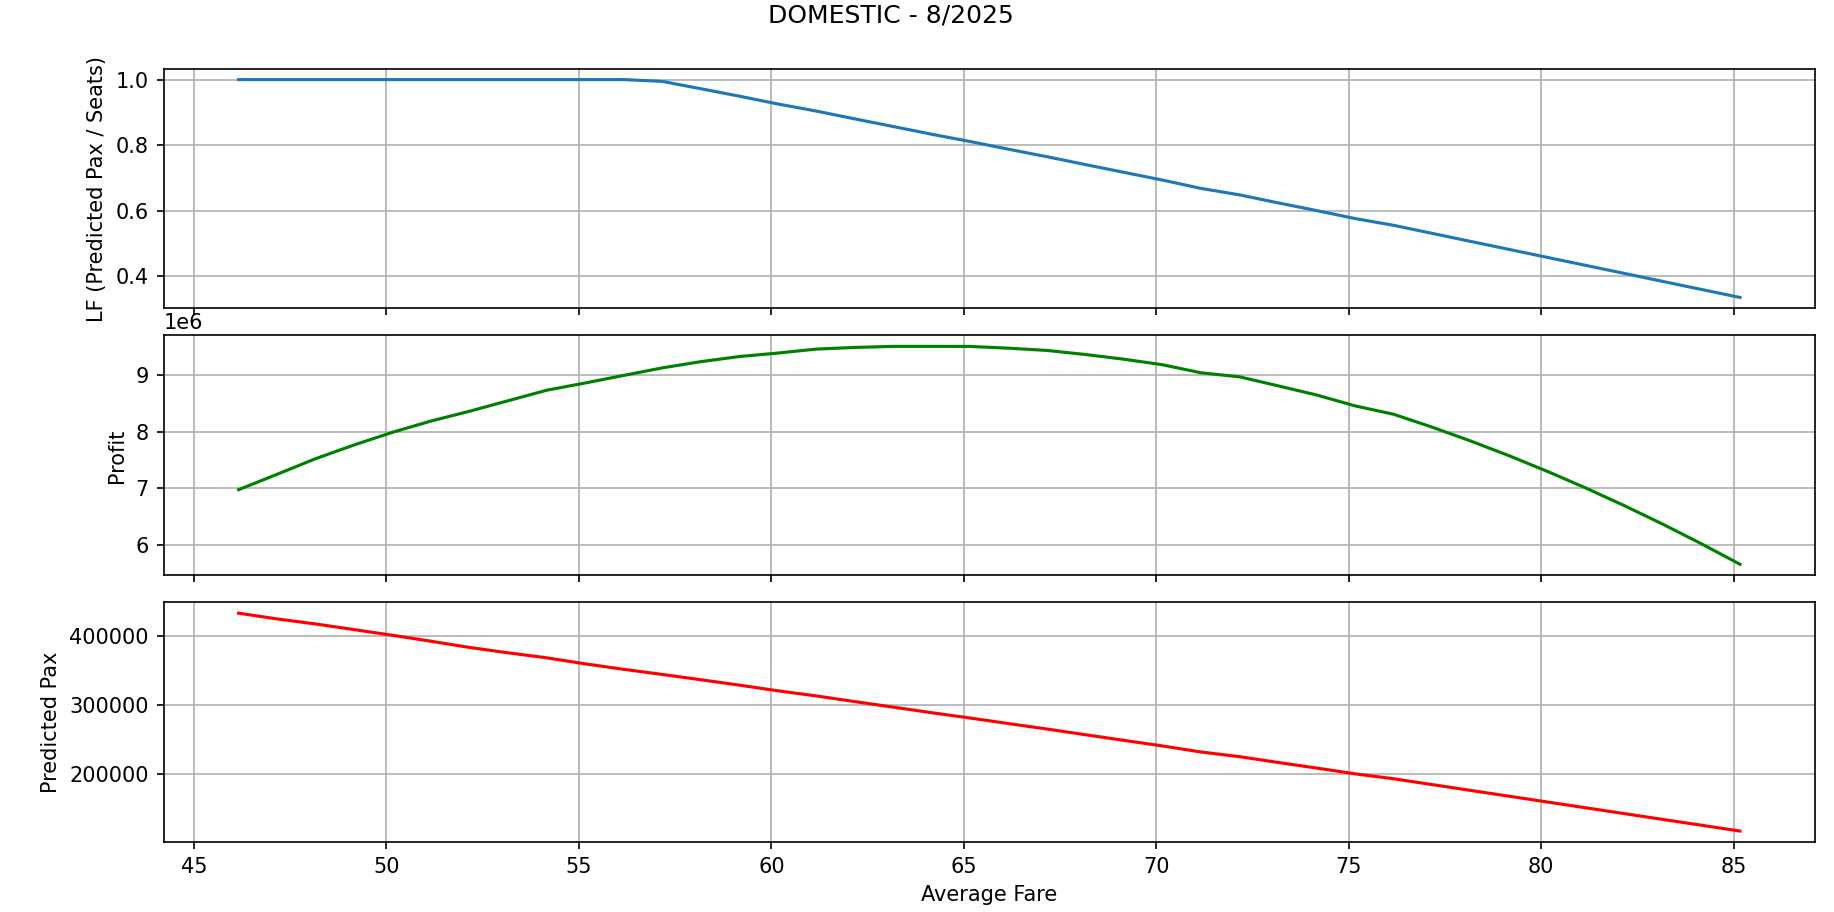
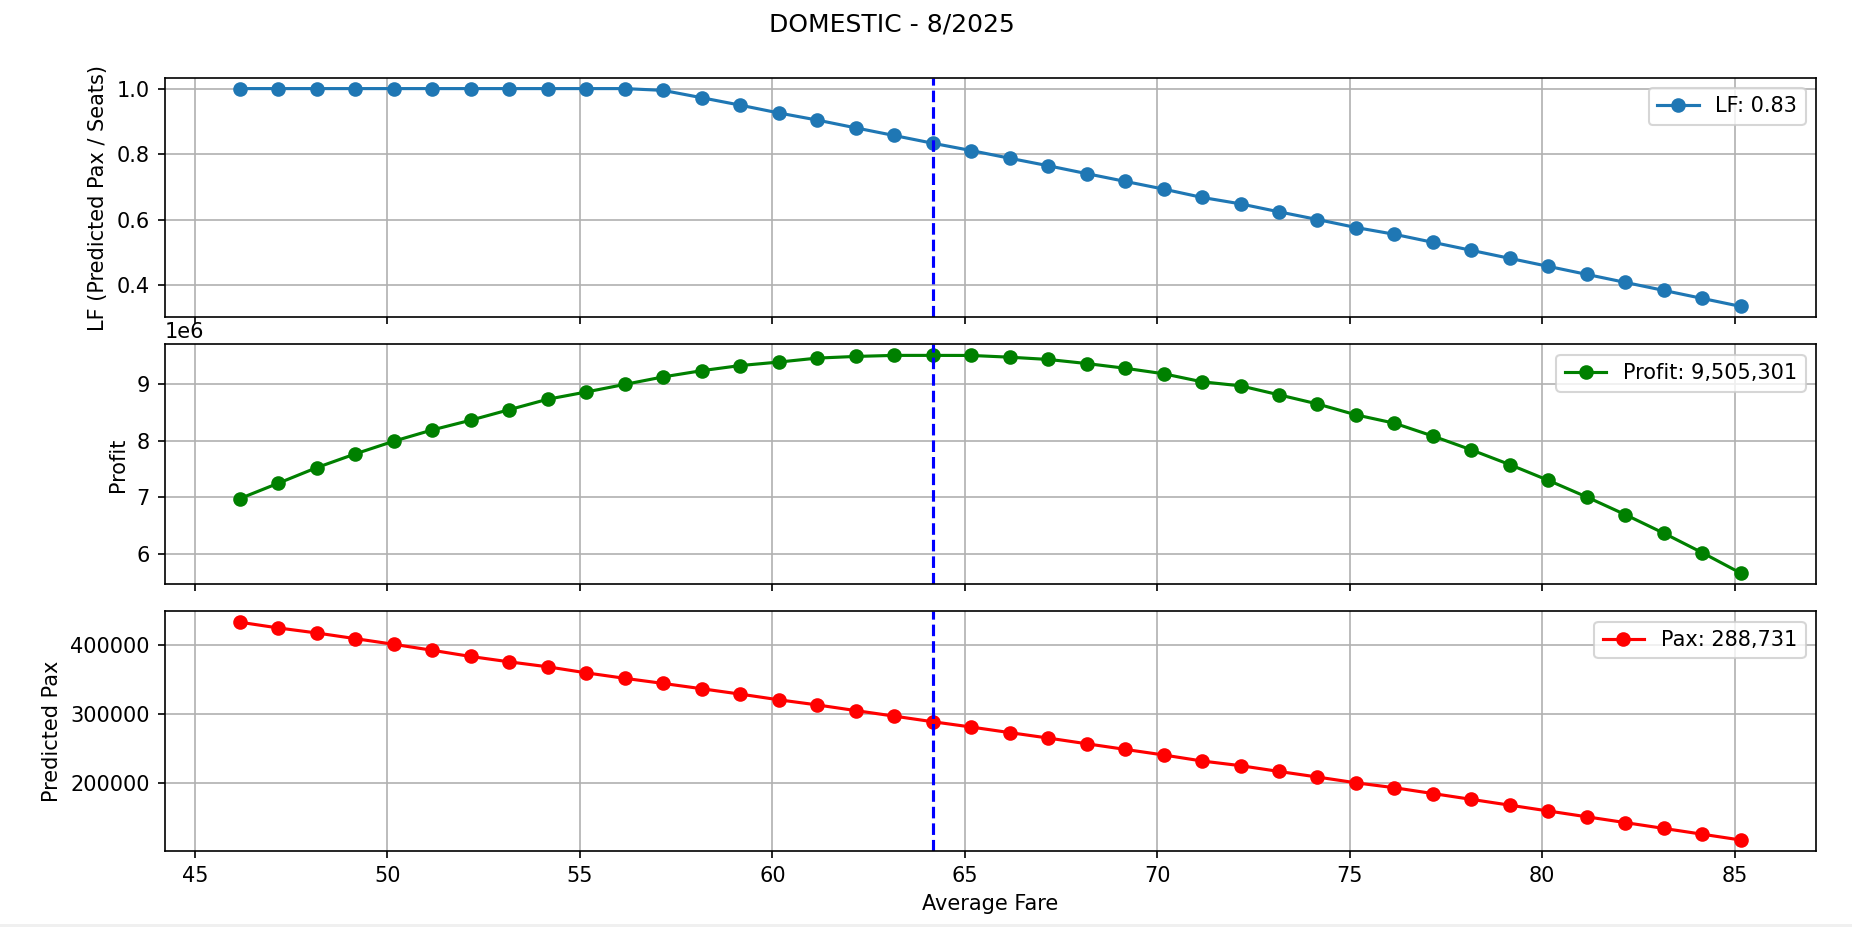
final subplot

diff --git a/Optimizer.py b/Optimizer.py
@@ -3,6 +3,10 @@ import pandas as pd
 import matplotlib.pyplot as plt
 import numpy as np
 
+import pandas as pd
+import matplotlib.pyplot as plt
+import numpy as np
+
 # Assumptions
 FC = 1000000
 cost_per_flight = 5000
@@ -26,66 +30,79 @@ if __name__ == "__main__":
     for year in years:
         for month in months:
             for flight_type in flight_types:
-                # Retrieve lagged competitor price and weighted seats using functions from PredictionModel.py
                 competitor_price = compute_lag_feature(df, FlightType[flight_type], year, month)
                 weighted_seats = compute_lag_seats(df, FlightType[flight_type], year, month)
-                print(f"Competitor Price: {competitor_price}, Weighted Seats (lag-based): {weighted_seats}")
 
                 # Generate a range of average fares (using an appropriate step)
                 avg_fares = np.arange(competitor_price * 0.7, competitor_price * 1.3, 1)
                 
-                # Initialize lists to store predicted pax, profit and avg fares.
+                # Initialize lists to store predicted pax, profit, and avg fares
                 pax_vals = []
                 profit_vals = []
                 fare_vals = []
 
-                # Loop over each avg fare and compute predictions and profit.
                 for avg_fare in avg_fares:
-                    print(f"Avg Fare: {avg_fare}")
                     pax_prediction = main(year, month, avg_fare, flight_type)
                     
-                    # Compute profit:
+                    # Compute profit
                     revenue = revenue_fn(pax_prediction, avg_fare)
                     flights = count_of_flights(pax_prediction, plane_capacity)
                     vc_value = VC(flights, cost_per_flight)
                     total_cost_value = vc_value + FC
                     profit_value = revenue - total_cost_value
                     
-                    print(f"Predicted Pax: {pax_prediction}, Profit: {profit_value}")
-                    
                     pax_vals.append(pax_prediction)
                     profit_vals.append(profit_value)
                     fare_vals.append(avg_fare)
 
-                # Identify the avg fare that maximizes profit.
+                # Identify the avg fare that maximizes profit
                 max_profit_index = np.argmax(profit_vals)
                 sweetspot_pax = pax_vals[max_profit_index]
-                # Set seats as 20% over the predicted pax from the sweet spot.
+                sweetspot_avgfare = fare_vals[max_profit_index]
+                # Set seats as 20% over the predicted pax from the sweet spot
                 seats = sweetspot_pax * 1.2
-                print(f"Sweetspot Predicted Pax: {sweetspot_pax}, Seats set to: {seats}")
 
-                # Recalculate LF for all avg fares using this new seats value.
+                # Recalculate LF for all avg fares using this new seats value
                 lf_vals = [p / seats if seats else 0 for p in pax_vals]
-                print(f"LF values: {lf_vals}")
-                lf_vals_1 = [np.float64(1) if lf > 1 else lf for lf in lf_vals]
-                print(f"LF values after clipping: {lf_vals_1}")
+                # Clip LF values: any LF greater than 1 is set to 1
+                lf_vals_1 = [min(lf, 1) for lf in lf_vals]
+
+                # Get the LF at the sweet spot
+                sweetspot_lf = lf_vals_1[max_profit_index]
+                # Get the profit at the sweet spot
+                sweetspot_profit = profit_vals[max_profit_index]
+
+                # Print sweetspot information
+                print(f"Sweetspot Avg Fare: {sweetspot_avgfare}, Pax: {sweetspot_pax}, LF: {sweetspot_lf}")
 
                 # Plot the three subplots in one figure (stacked vertically)
                 fig, axs = plt.subplots(3, 1, figsize=(8, 12), sharex=True)
                 fig.suptitle(f"{flight_type} - {month}/{year}")
 
-                axs[0].plot(fare_vals, lf_vals_1)
+                # Plot LF
+                axs[0].plot(fare_vals, lf_vals_1, marker='o')
                 axs[0].set_ylabel("LF (Predicted Pax / Seats)")
                 axs[0].grid(True)
+                axs[0].axvline(sweetspot_avgfare, color='blue', linestyle='--')
+                # Add legend with LF and Pax values only
+                axs[0].legend([f"LF: {sweetspot_lf:.2f}"])
 
-                axs[1].plot(fare_vals, profit_vals, color='green')
+                # Plot Profit
+                axs[1].plot(fare_vals, profit_vals, marker='o', color='green')
                 axs[1].set_ylabel("Profit")
                 axs[1].grid(True)
+                axs[1].axvline(sweetspot_avgfare, color='blue', linestyle='--')
+                # Add legend with Profit and Pax values only
+                axs[1].legend([f"Profit: {sweetspot_profit:,.0f}"])
 
-                axs[2].plot(fare_vals, pax_vals, color='red')
+                # Plot Predicted Pax
+                axs[2].plot(fare_vals, pax_vals, marker='o', color='red')
                 axs[2].set_ylabel("Predicted Pax")
                 axs[2].set_xlabel("Average Fare")
                 axs[2].grid(True)
+                axs[2].axvline(sweetspot_avgfare, color='blue', linestyle='--')
+                # Add legend with Pax value only
+                axs[2].legend([f"Pax: {sweetspot_pax:,.0f}"])
 
                 plt.tight_layout(rect=[0, 0.03, 1, 0.95])
                 plt.show()

diff --git a/PredictionModel.py b/PredictionModel.py
@@ -161,7 +161,6 @@ def compute_lag_feature(df, flight_type: FlightType, target_year, target_month, 
                       competitor_values[1] * weights[1] +
                       competitor_values[2] * weights[2])
 
-    print(f"Weighted competitor price for {flight_type.name}: {weighted_price:.2f}")
     return weighted_price
 
 # New helper function: compute weighted seats using lagged data
@@ -225,8 +224,6 @@ def main(year, month, avg_fare, flight_type_str):
         month_rank = month_ranks[month]
         adjusted_pax = adjust_passengers(initial_pax, avg_fare, weighted_competitor_price, month_rank)
         
-        print(f"Initial predicted {flight_type.name} passengers: {initial_pax:.0f}")
-        print(f"Adjusted predicted {flight_type.name} passengers: {adjusted_pax:.0f}")
         return adjusted_pax
 
 # Example usage:
